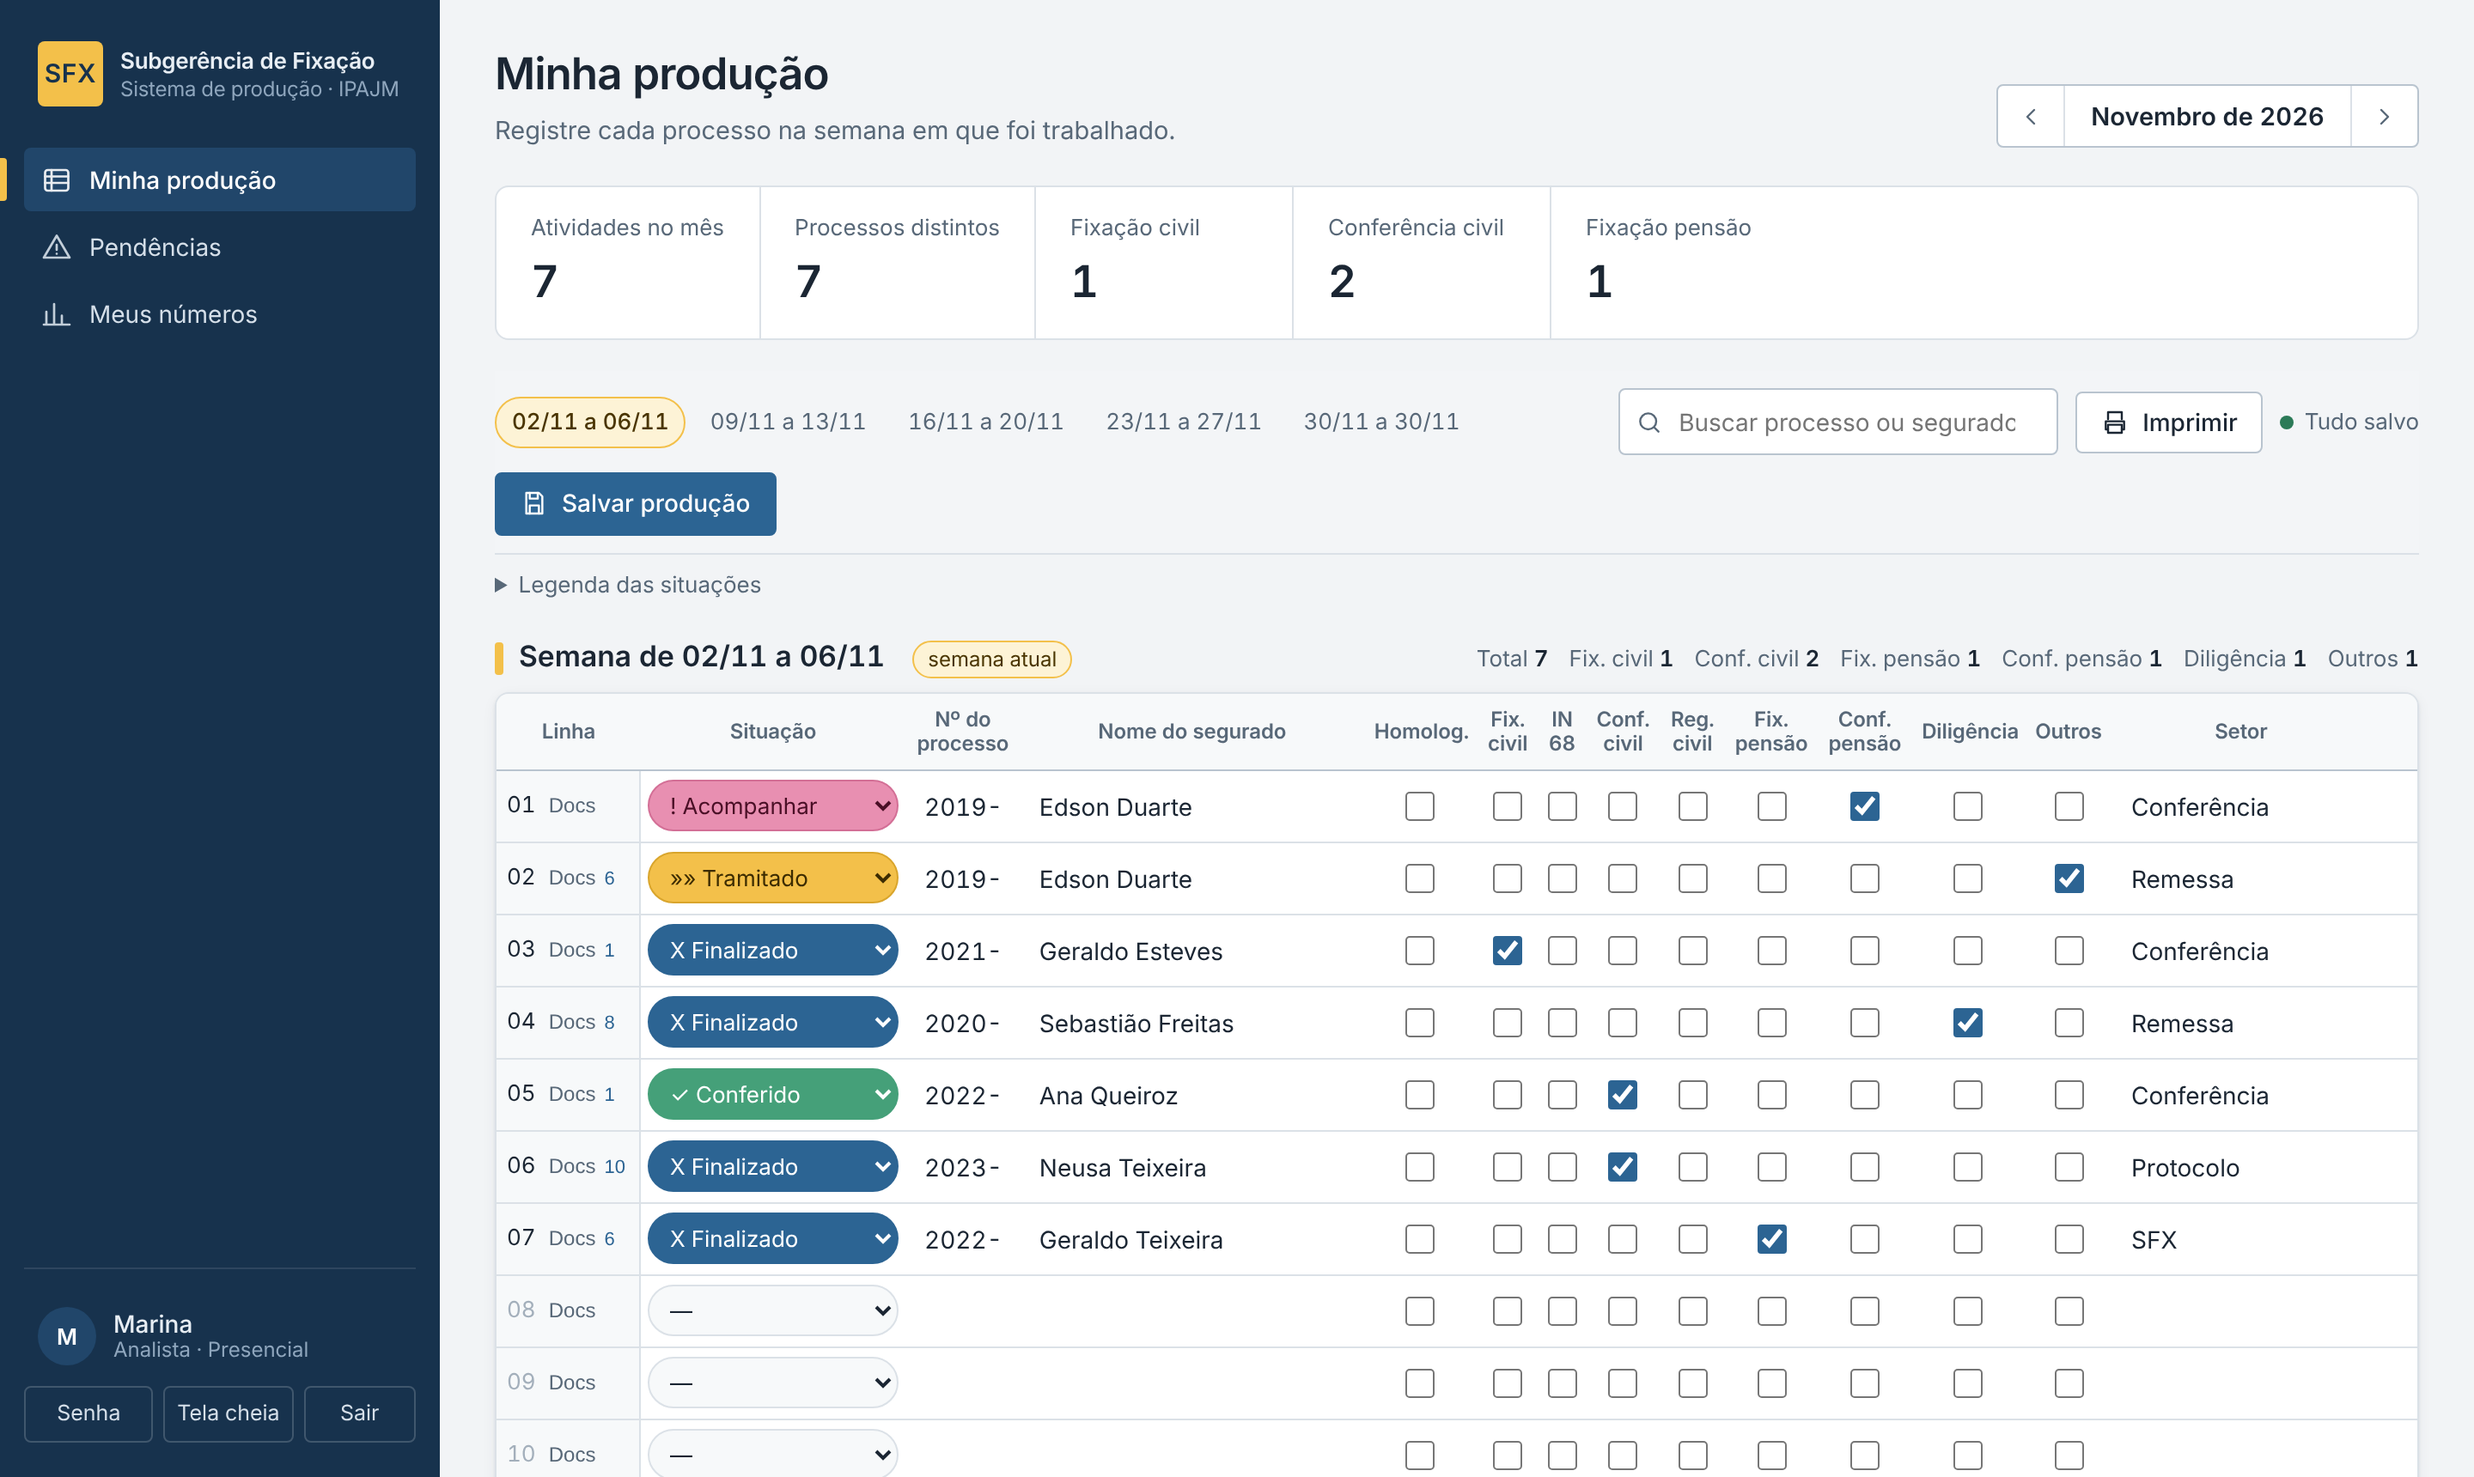
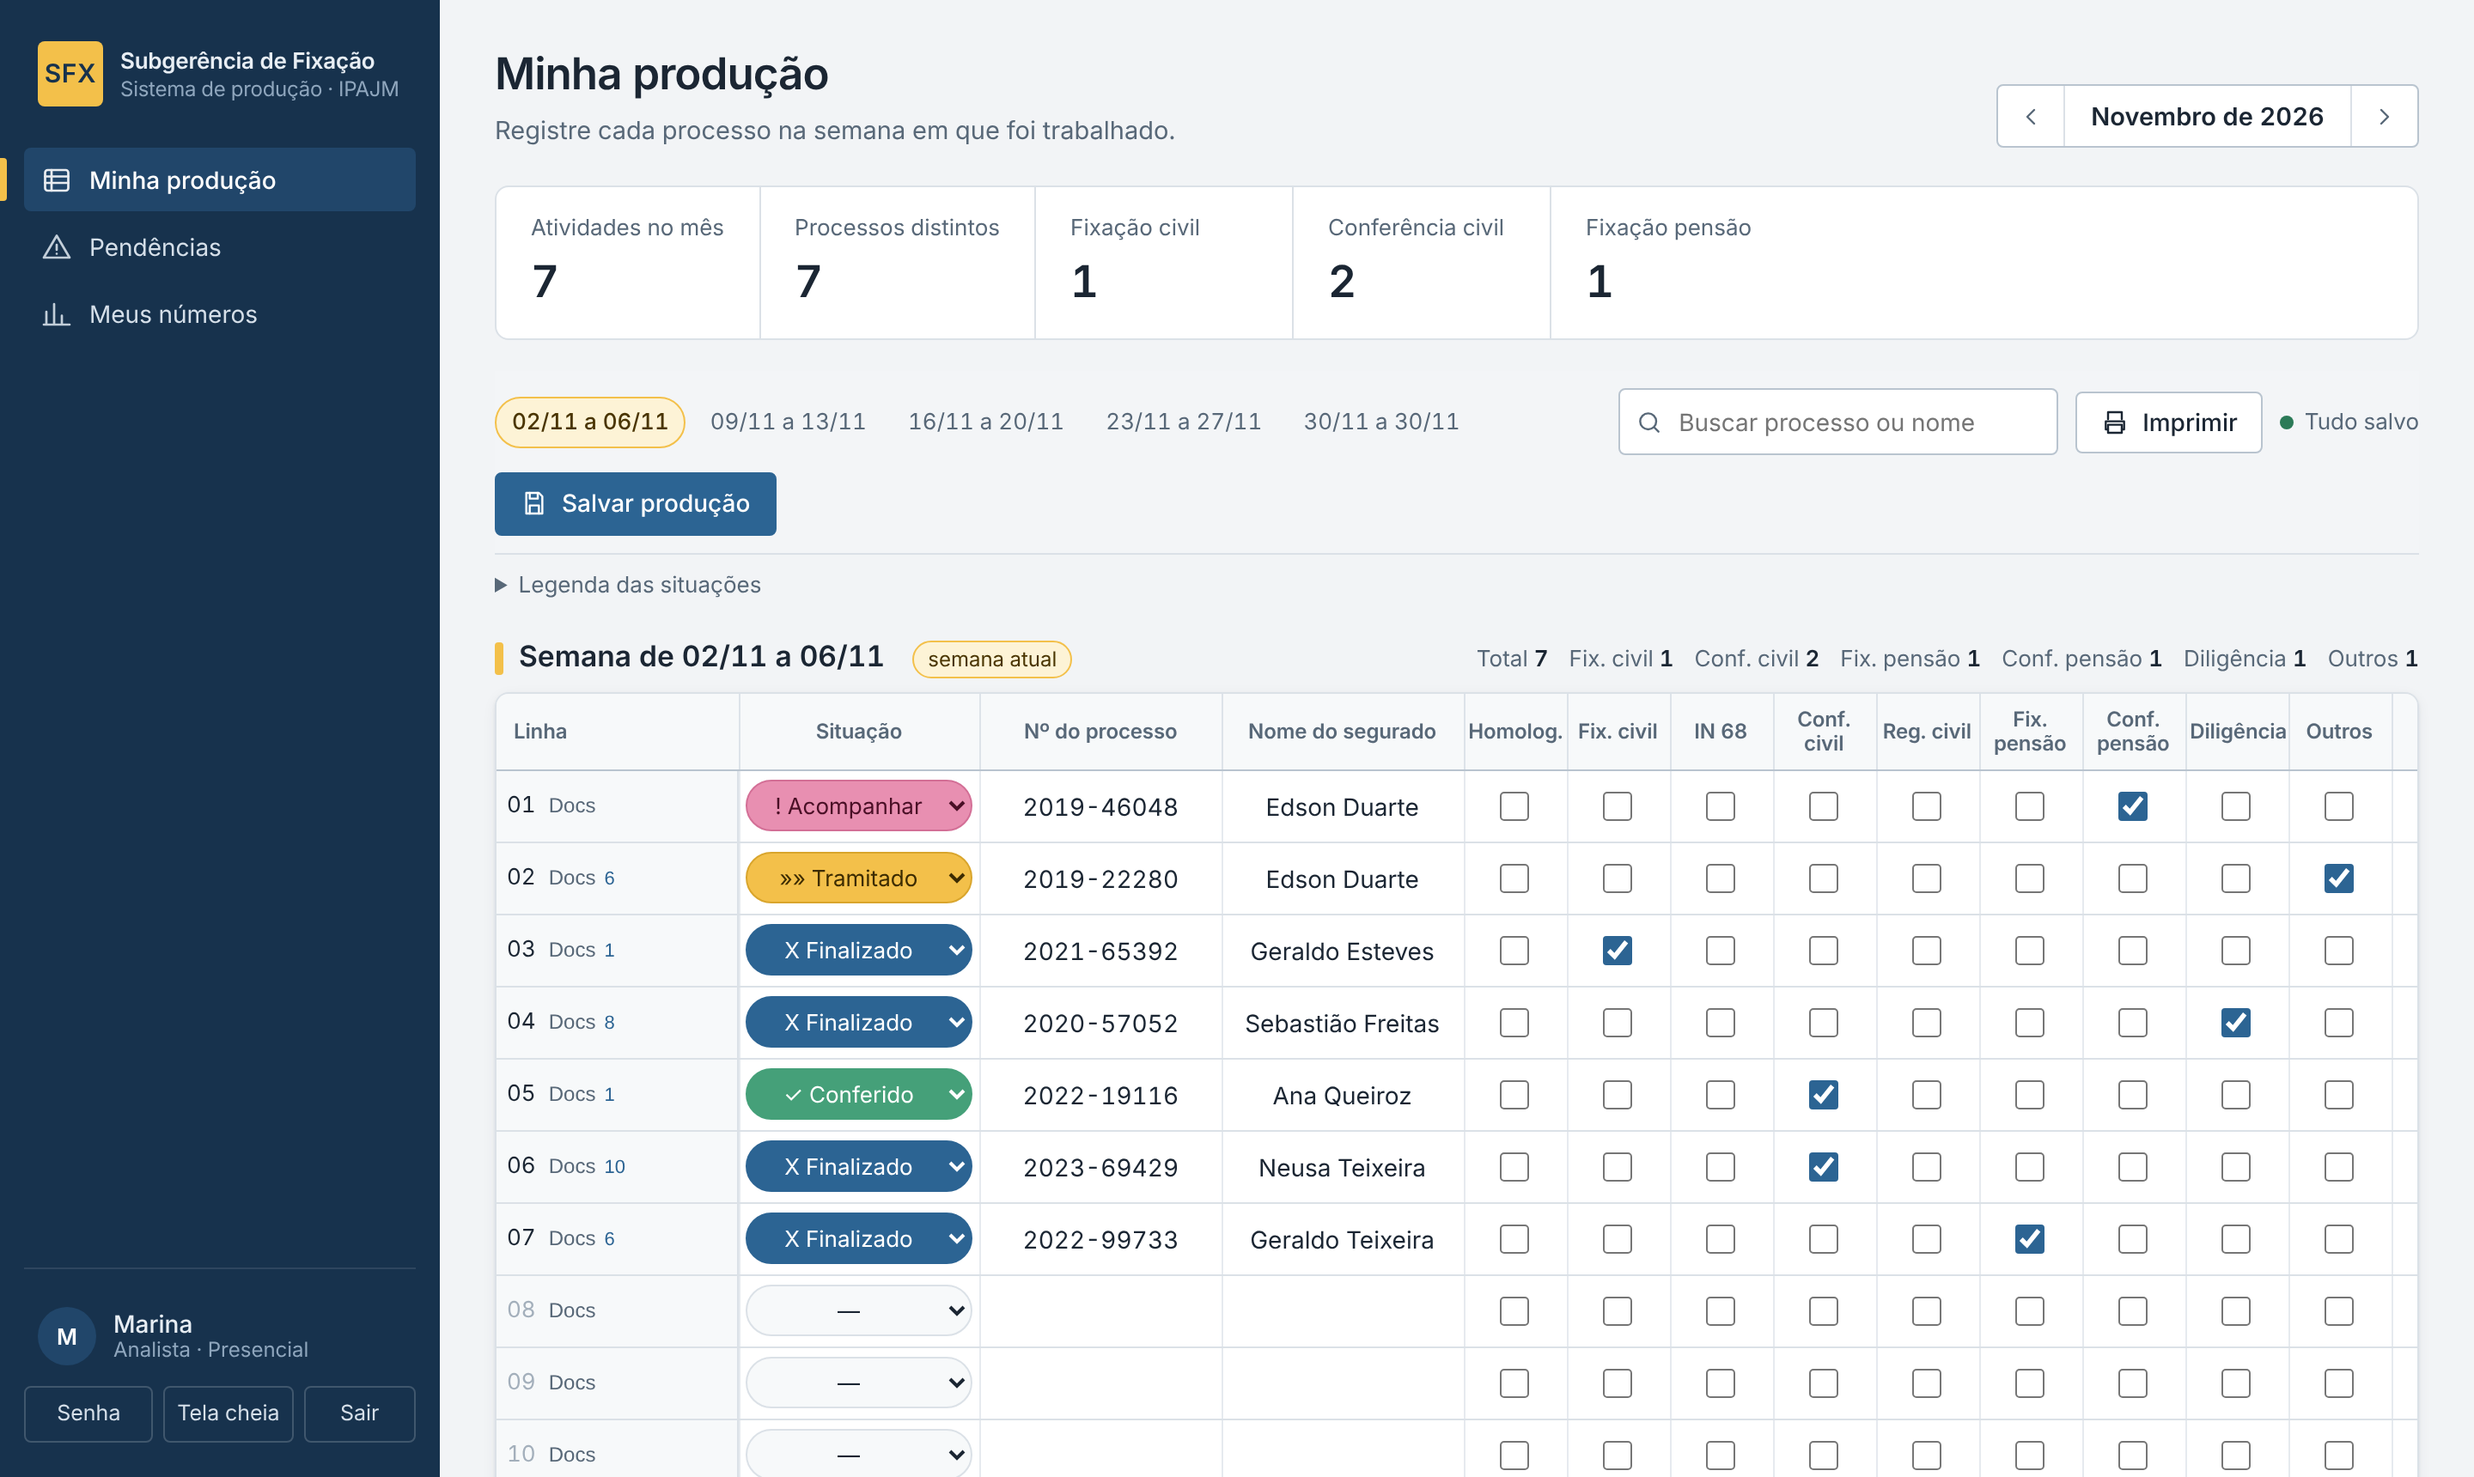
Grade com colunas centralizadas e divisórias; Albert administrador
- Conteúdo da grade centralizado sob os títulos, divisórias verticais
  suaves entre colunas e larguras fixas (atividades com a mesma largura)
- Tabelas de números e plano de ação também centralizados
- Migração d5e9f3a1b2c7: Albert passa a ser administrador e acessa o plano
  de ação, como o Lucas (aplicada automaticamente pelo "sfx preparar")

Claude-Session: https://claude.ai/code/session_014xnefAugbuGwaXjBEjBL4h

diff --git a/sfx/static/css/app.css b/sfx/static/css/app.css
@@ -191,7 +191,9 @@ table.tabela { width: 100%; border-collapse: collapse; font-size: 14px; }
 }
 .tabela td { padding: 9px 12px; border-bottom: 1px solid var(--linha); vertical-align: top; }
 .tabela tr:last-child td { border-bottom: 0; }
-.tabela .num { text-align: right; }
+.tabela .num { text-align: center; }
+.tabela th + th, .tabela td + td { box-shadow: inset 1px 0 0 #edf0f3; }
+.tabela tr.linha-edicao > td { box-shadow: none; }
 .tabela tfoot td { font-weight: 600; background: var(--superficie-2); border-top: 1px solid var(--linha-forte); }
 .tabela tbody tr:hover td { background: #fafbfc; }
 .zero { color: #a3afbb; }
@@ -241,12 +243,13 @@ table.tabela { width: 100%; border-collapse: collapse; font-size: 14px; }
 .contagem-semana b { color: var(--texto); font-weight: 600; }
 
 .livro-envolta { position: relative; overflow-x: auto; background: var(--superficie); border: 1px solid var(--linha); border-radius: var(--r-2); box-shadow: var(--sombra); }
-table.livro { border-collapse: separate; border-spacing: 0; width: 100%; min-width: 1320px; font-size: 13.5px; }
+table.livro { border-collapse: separate; border-spacing: 0; width: 100%; min-width: 1420px; font-size: 13.5px; table-layout: fixed; }
 .livro thead th {
   font-family: var(--fonte-cond); font-weight: 600; font-size: 12px; letter-spacing: -.005em; color: var(--texto-suave);
   background: var(--superficie-2); border-bottom: 1px solid var(--linha-forte); padding: 8px 6px; text-align: center; line-height: 1.15;
 }
-.livro thead th.atv { width: 54px; }
+.livro thead th.atv { width: 60px; padding-left: 2px; padding-right: 2px; }
+.livro thead th.th-margem { width: 72px; }
 .livro thead th.atv span { display: block; max-width: 54px; margin: 0 auto; }
 .livro td { border-bottom: 1px solid var(--linha); padding: 3px 4px; vertical-align: middle; }
 .livro td.cb { text-align: center; }
@@ -263,13 +266,25 @@ table.livro { border-collapse: separate; border-spacing: 0; width: 100%; min-wid
 .livro input[type=text] { border-color: transparent; background: transparent; padding: 6px 6px; border-radius: 3px; }
 .livro input[type=text]:hover { border-color: var(--linha); }
 .livro input[type=text]:focus { background: #fff; border-color: var(--pasta); }
-.livro .col-proc { width: 172px; }
-.livro .col-nome { min-width: 200px; }
-.livro .col-setor { width: 150px; min-width: 150px; }
-.livro .col-obs { min-width: 200px; }
-.livro .col-status { width: 150px; }
-.livro .col-status select { width: 146px; }
-.livro .col-acao { width: 40px; text-align: center; }
+.livro .col-proc { width: 122px; }
+.livro .col-nome { width: auto; }
+.livro .col-setor { width: 112px; }
+.livro .col-obs { width: auto; }
+.livro .col-status { width: 146px; }
+.livro .col-status select { width: 100%; }
+.livro .col-acao { width: 36px; text-align: center; }
+
+/* Conteúdo centralizado sob o título e divisórias verticais suaves entre colunas */
+:root { --divisoria: #e6eaef; }
+.livro thead th, .livro td { text-align: center; }
+.livro input[type=text] { text-align: center; text-overflow: ellipsis; }
+.livro input[type=text]:focus { text-align: left; }   /* ao editar, o texto longo flui normalmente */
+.livro thead th + th, .livro tr.linha td + td { box-shadow: inset 1px 0 0 var(--divisoria); }
+.livro thead th + th { box-shadow: inset 1px 0 0 #dde3e9; }
+.livro tr.linha:hover td { background: #f6f9fc; }
+.livro select.status { text-align: center; text-align-last: center; }
+.livro td.margem { text-align: left; }
+.livro thead th:first-child { text-align: left; padding-left: 10px; }
 .btn-remover { border: 0; background: none; color: #a3afbb; cursor: pointer; padding: 4px 6px; border-radius: 3px; font-size: 16px; line-height: 1; }
 .btn-remover:hover { color: var(--erro); background: var(--erro-clara); }
 
@@ -324,8 +339,8 @@ tr.destacada td { background: var(--marca-clara) !important; transition: backgro
 .pendencia.arquivada { opacity: .7; }
 
 /* Plano de ação */
-table.plano input[type=number] { width: 88px; text-align: right; padding: 6px 8px; }
-table.plano input[type=text] { width: 110px; padding: 6px 8px; }
+table.plano input[type=number] { width: 88px; text-align: center; padding: 6px 8px; }
+table.plano input[type=text] { width: 110px; padding: 6px 8px; text-align: center; }
 table.plano textarea { min-width: 360px; min-height: 40px; max-height: 9.5em; font-size: 13px; overflow-y: auto; }
 @media print { table.plano textarea { max-height: none; } }
 table.plano tr.base td { background: var(--superficie-2); color: var(--texto-suave); font-style: italic; }
@@ -402,7 +417,7 @@ table.plano tr.base td { background: var(--superficie-2); color: var(--texto-sua
   .painel, .livro-envolta { box-shadow: none; border-color: #999; }
   .caderno { break-inside: avoid-page; margin: 0 0 14px; }
   .caderno.oculto-impressao { display: none !important; }
-  table.livro { min-width: 0; font-size: 10px; }
+  table.livro { min-width: 0; font-size: 10px; table-layout: auto; }
   .livro input[type=text] { border: 0; padding: 2px; font-size: 10px; }
   .livro tr.linha:not(.tem-conteudo) { display: none; }
   select.status { -webkit-appearance: none; appearance: none; border: 0; padding: 1px 6px; font-size: 10px; }

diff --git a/sfx/templates/producao/grade.html b/sfx/templates/producao/grade.html
@@ -115,13 +115,13 @@
       <table class="livro">
         <thead>
           <tr>
-            <th>Linha</th>
-            <th>Situação</th>
-            <th>Nº do processo</th>
-            <th>Nome do segurado</th>
+            <th class="th-margem">Linha</th>
+            <th class="col-status">Situação</th>
+            <th class="col-proc">Nº do processo</th>
+            <th class="col-nome">Nome do segurado</th>
             {% for a in C.ATIVIDADES %}<th class="atv" title="{{ a.rotulo }}"><span>{{ a.curto }}</span></th>{% endfor %}
-            <th>Setor</th>
-            <th>Observações</th>
+            <th class="col-setor">Setor</th>
+            <th class="col-obs">Observações</th>
             <th class="col-acao"><span class="sr-only">Remover</span></th>
           </tr>
         </thead>

diff --git a/migrations/versions/d5e9f3a1b2c7_albert_administrador.py b/migrations/versions/d5e9f3a1b2c7_albert_administrador.py
@@ -1,0 +1,26 @@
+"""albert: administrador e plano de ação, como o Lucas
+
+Revision ID: d5e9f3a1b2c7
+Revises: c4d8e1f2a7b6
+Create Date: 2026-11-06 17:05:00
+"""
+
+import sqlalchemy as sa
+from alembic import op
+
+revision = "d5e9f3a1b2c7"
+down_revision = "c4d8e1f2a7b6"
+branch_labels = None
+depends_on = None
+
+
+def upgrade():
+    op.execute(
+        sa.text("UPDATE usuario SET administrador = :v, pode_plano_acao = :v WHERE lower(nome) = 'albert'").bindparams(
+            v=True
+        )
+    )
+
+
+def downgrade():
+    op.execute(sa.text("UPDATE usuario SET administrador = :v WHERE lower(nome) = 'albert'").bindparams(v=False))
